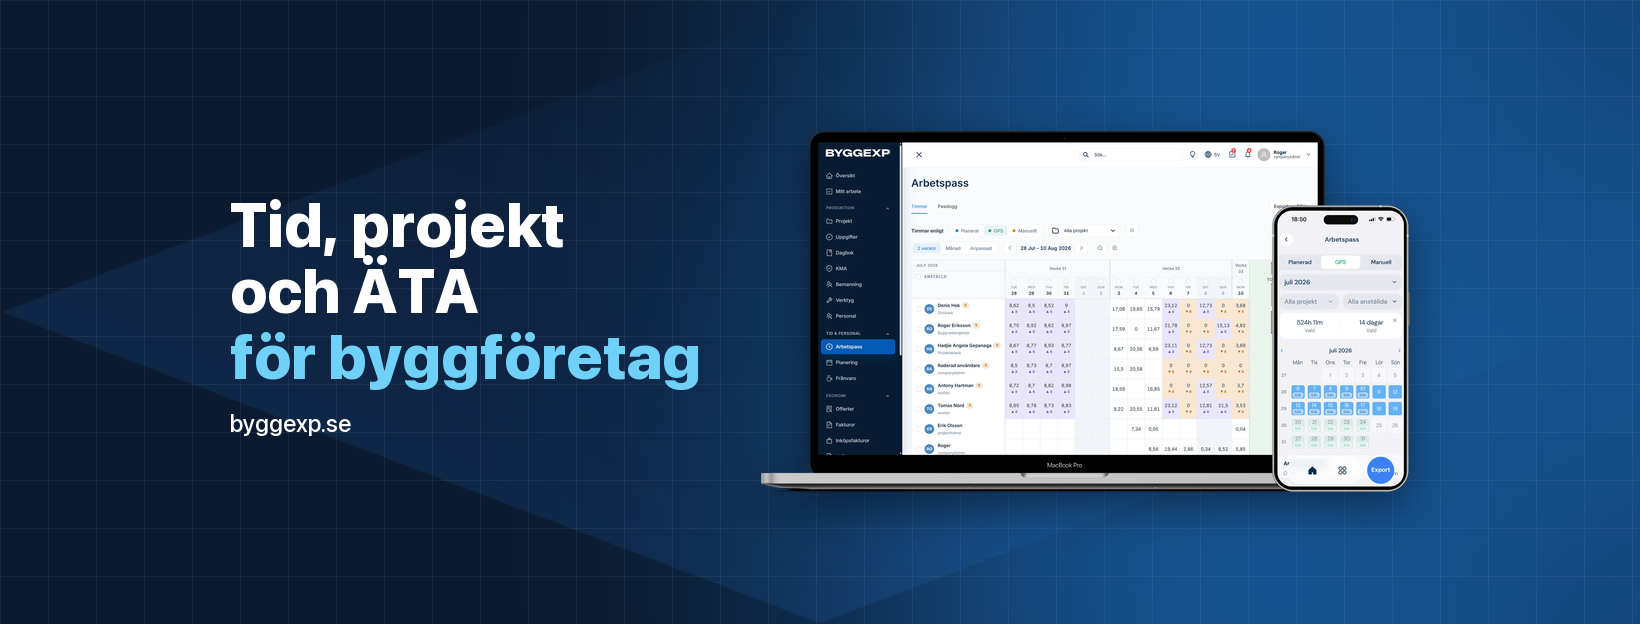
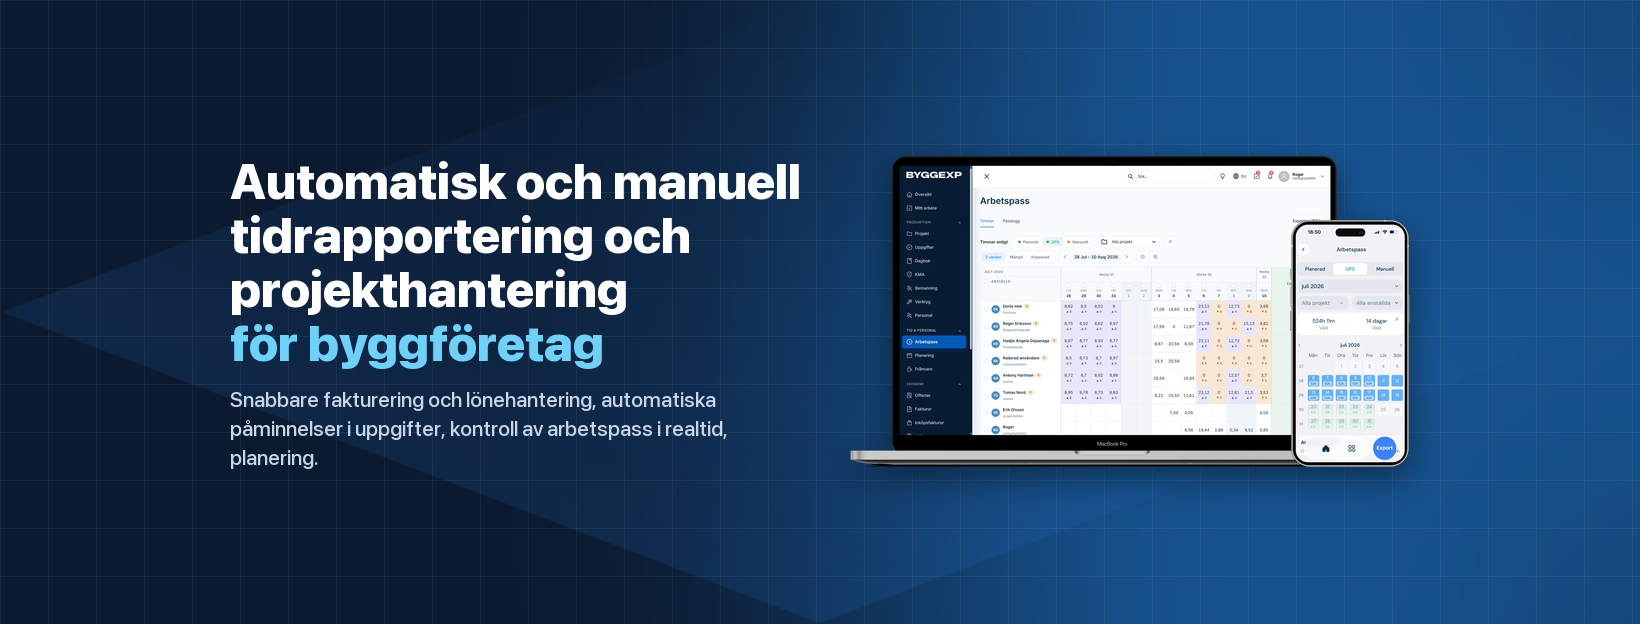
marketing: covers use homepage headline + subtitle

Changed region(s): [[0.1244, 0.1827, 0.8707, 0.8221], [0.1244, 0.7308, 0.1866, 0.7612]]

diff --git a/design-assets/social/covers/make_covers.py b/design-assets/social/covers/make_covers.py
@@ -33,21 +33,36 @@ def background(w, h, cell):
     return img
 
 
-def cover(name, w, h, safe, lines, fs, cell, url=True):
+def wrap(d, text, f, width):
+    out, cur = [], ""
+    for word in text.split():
+        t = (cur + " " + word).strip()
+        if d.textlength(t, font=f) <= width:
+            cur = t
+        else:
+            out.append(cur); cur = word
+    return out + [cur]
+
+
+def cover(name, w, h, safe, lines, fs, cell, sub=None, tw=None):
     sl, st, sw, sh = safe
     img = background(w, h, cell)
     d = ImageDraw.Draw(img)
-    big, small = font(fs, "Heavy"), font(int(fs * .4), "Medium")
-    lh = int(fs * 1.08)
-    block_h = lh * len(lines) + (int(fs * .45) + int(fs * .4) if url else 0)
+    big, small = font(fs, "Heavy"), font(int(fs * .42), "Medium")
+    lh, slh = int(fs * 1.08), int(fs * .42 * 1.4)
+    sub_lines = wrap(d, sub, small, tw) if sub else []
+    block_h = lh * len(lines) + (int(fs * .4) + slh * len(sub_lines) if sub_lines else 0)
     y = st + (sh - block_h) // 2
     text_w = 0
     for text, color in lines:
         d.text((sl, y), text, font=big, fill=color)
         text_w = max(text_w, d.textlength(text, font=big))
         y += lh
-    if url:
-        d.text((sl, y + int(fs * .45) - int(fs * .08)), "byggexp.se", font=small, fill=(255, 255, 255, 180))
+    y += int(fs * .4)
+    for t in sub_lines:
+        d.text((sl, y), t, font=small, fill=(200, 214, 232))
+        text_w = max(text_w, d.textlength(t, font=small))
+        y += slh
     # product screenshot fills the rest of the safe area
     gap = int(fs * .8)
     box_w, box_h = int(sl + sw - (sl + text_w + gap)), sh
@@ -63,13 +78,14 @@ def cover(name, w, h, safe, lines, fs, cell, url=True):
     img.convert("RGB").save(HERE / f"{name}.png", optimize=True)
 
 
-TWO = [("Tid, projekt och ÄTA", WHITE), ("för byggföretag", SKY)]
-THREE = [("Tid, projekt", WHITE), ("och ÄTA", WHITE), ("för byggföretag", SKY)]
+SUB = "Snabbare fakturering och lönehantering, automatiska påminnelser i uppgifter, kontroll av arbetspass i realtid, planering."
+TITLE = [("Automatisk och manuell", WHITE), ("tidrapportering och", WHITE), ("projekthantering", WHITE), ("för byggföretag", SKY)]
+SHORT = [("Tidrapportering och projekthantering", WHITE), ("för byggföretag", SKY)]
 
 # Facebook: 1640x624, keep inside centre ~1180px (mobile crops the sides)
-cover("facebook-cover", 1640, 624, (230, 50, 1180, 524), THREE, 62, 48)
+cover("facebook-cover", 1640, 624, (230, 40, 1180, 544), TITLE, 50, 48, SUB, 560)
 # LinkedIn company: 1128x191, logo overlaps bottom-left -> start content at x=300
-cover("linkedin-cover", 1128, 191, (300, 20, 800, 151), TWO, 30, 24, url=False)
+cover("linkedin-cover", 1128, 191, (300, 20, 800, 151), SHORT, 26, 24)
 # YouTube: 2560x1440, safe area 1546x423 in the centre
-cover("youtube-banner", 2560, 1440, (507, 509, 1546, 423), THREE, 84, 64)
+cover("youtube-banner", 2560, 1440, (507, 509, 1546, 423), TITLE, 62, 64, SUB, 720)
 print("ok")
